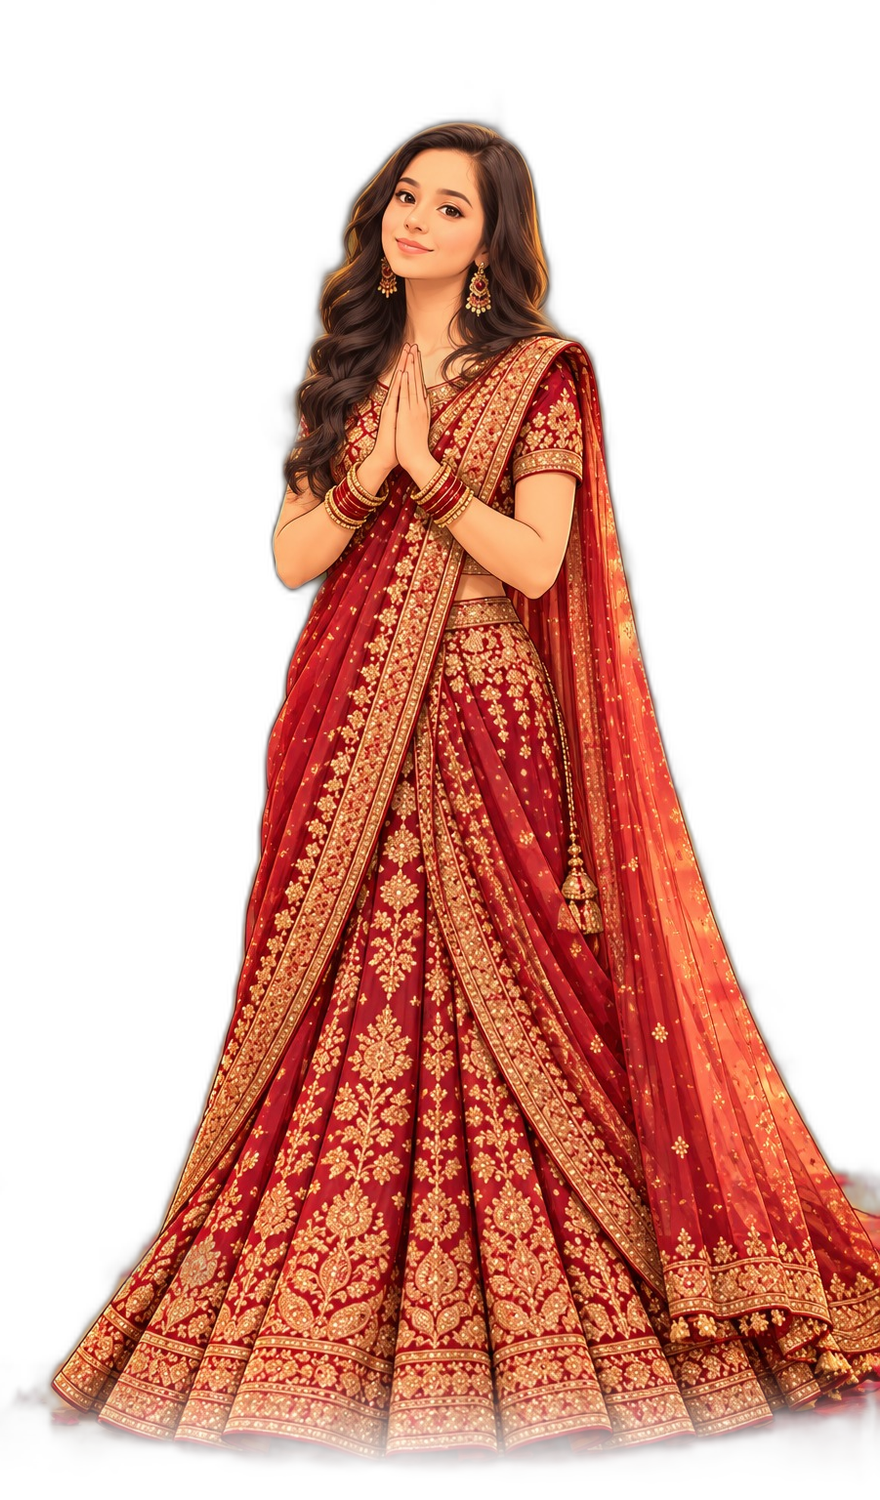
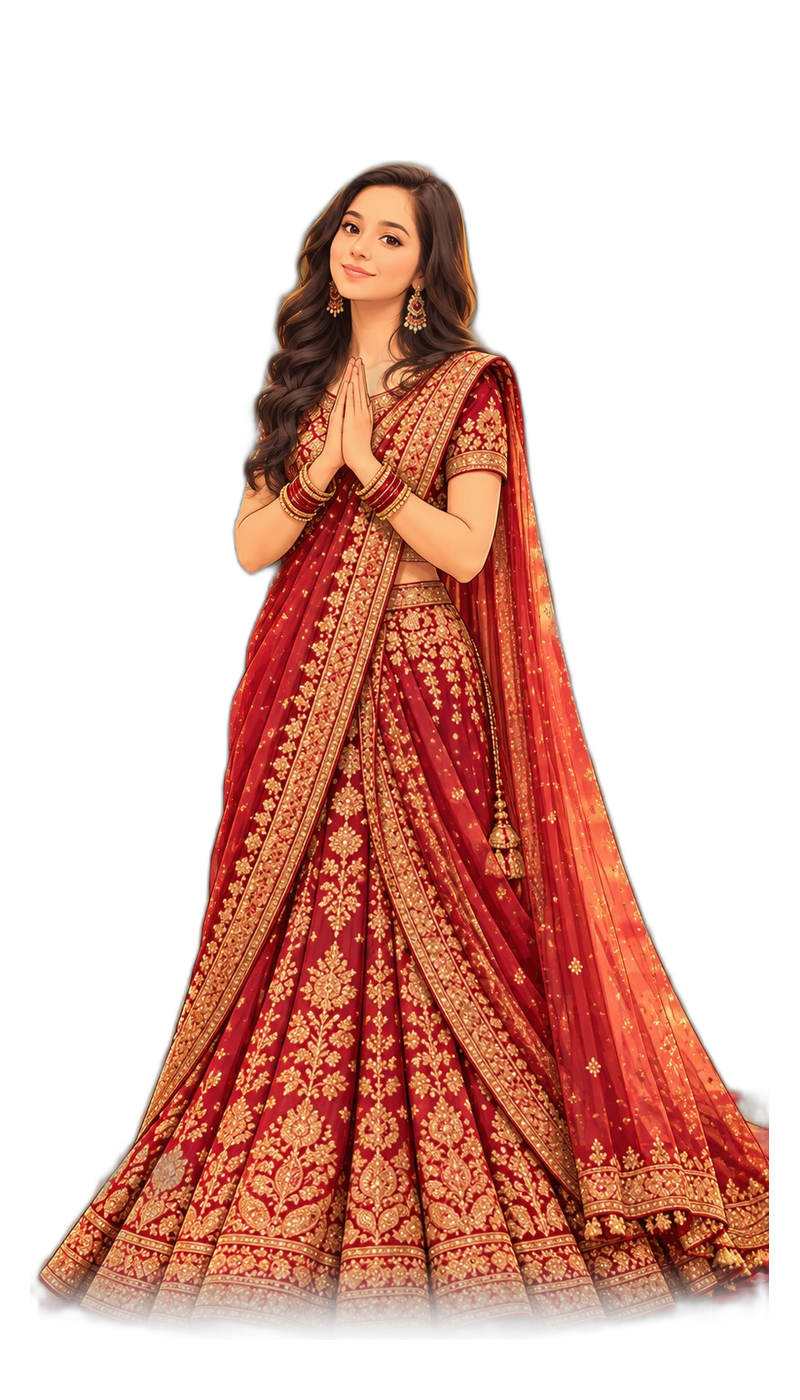
fix: normalize bride and groom cutout canvas aspect-ratio and heights to exact equal scale and baseline

diff --git a/css/style.css b/css/style.css
@@ -985,17 +985,17 @@ body.pre-scratch .page.live .scratch-hint {
    ========================================================================== */
 .couple-folded-hands-container {
   display: flex;
-  align-items: center;
+  align-items: flex-end;
   justify-content: space-between;
-  gap: 8px;
+  gap: 6px;
   margin: 10px 0 12px;
   width: 100%;
   position: relative;
 }
 
 .couple-cutout-card {
-  flex: 0 0 28%;
-  max-width: 135px;
+  flex: 0 0 29%;
+  max-width: 125px;
   display: flex;
   flex-direction: column;
   align-items: center;
@@ -1018,7 +1018,8 @@ body.pre-scratch .page.live .scratch-hint {
 
 .cutout-img {
   width: 100%;
-  height: clamp(140px, 26vh, 210px);
+  aspect-ratio: 8 / 14;
+  height: clamp(140px, 25vh, 205px);
   object-fit: contain;
   object-position: bottom center;
   display: block;
@@ -1026,14 +1027,15 @@ body.pre-scratch .page.live .scratch-hint {
 
 .cutout-title {
   font-family: var(--serif);
-  font-size: clamp(11.5px, 2.8vw, 14px);
+  font-size: clamp(11px, 2.7vw, 13.5px);
   font-weight: 700;
   letter-spacing: 0.14em;
   text-transform: uppercase;
   color: var(--navy-d);
-  margin-top: 4px;
+  margin-top: 5px;
   border-bottom: 1.5px solid rgba(196, 159, 78, 0.55);
   padding-bottom: 2px;
+  white-space: nowrap;
 }
 
 .couple-folded-center {
@@ -1044,6 +1046,7 @@ body.pre-scratch .page.live .scratch-hint {
   align-items: center;
   text-align: center;
   padding: 0 4px;
+  align-self: center;
 }
 
 .couple-folded-center .royal-monogram {
